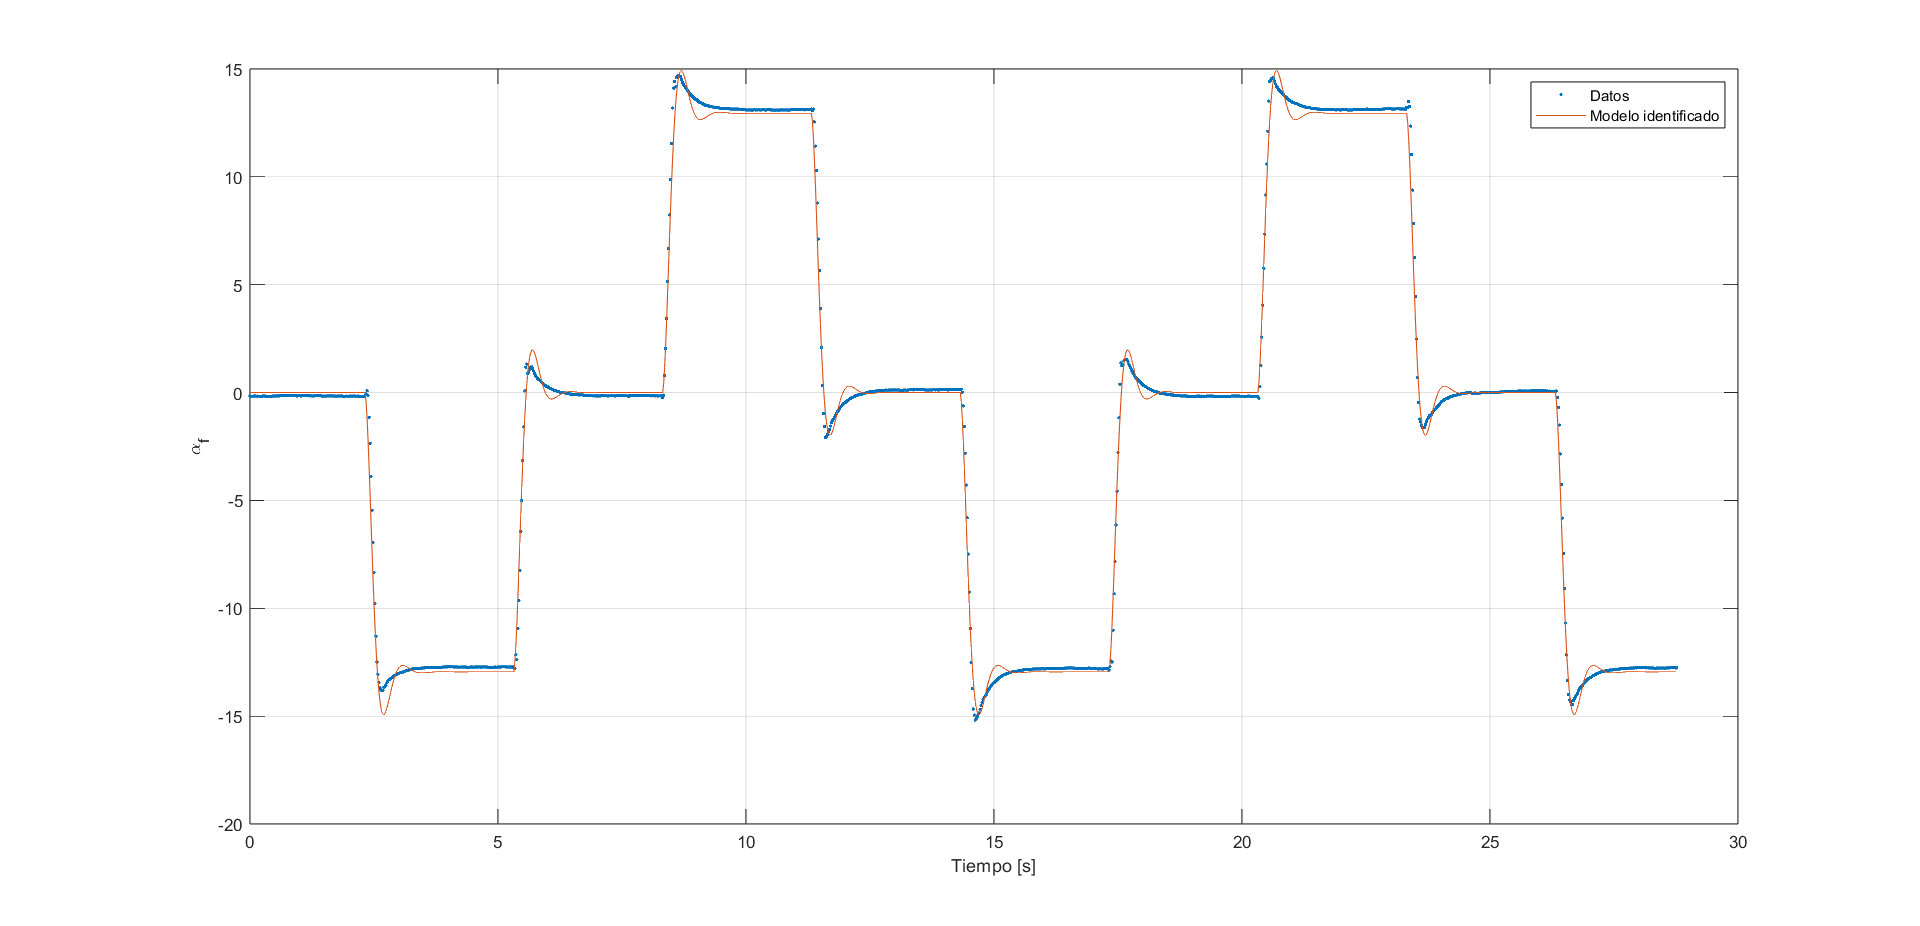
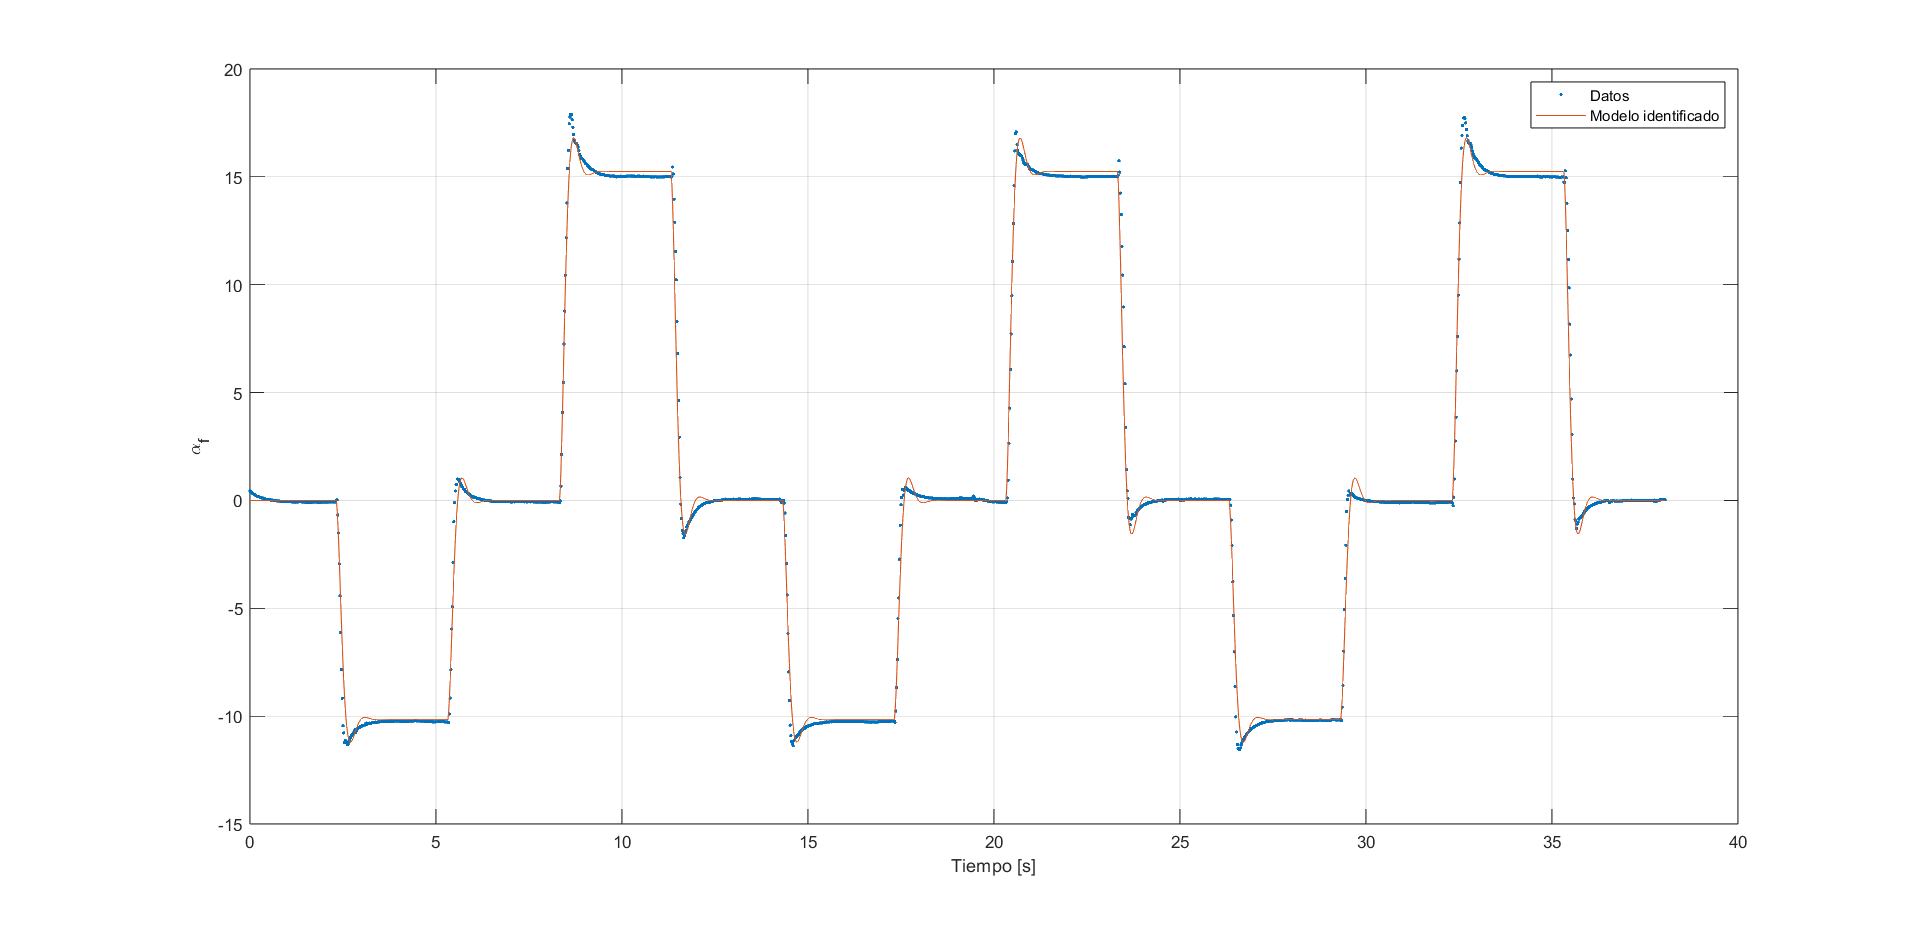
correccion de la relacion us/angulo y actualizacion de los parametros identificados

diff --git a/practica_3/identificacion_2/identificacion.m b/practica_3/identificacion_2/identificacion.m
@@ -1,3 +1,4 @@
+%%
 u = out.u; % senial de control
 y = out.alpha_f; % angulo estimado
 N = length(y); % cant de muestras
@@ -6,7 +7,7 @@ Ts = 0.02; % periodo de muestreo
 % y ~ X * alpha
 % alpha es el vector de coef en y[k]=c1y[k−1]+c2y[k−2]+c3u[k−2] 
 
-X = [y(2:N-1), y(1:N-2), u(1:N-2)];
+X = [y(2:N-1), y(1:N-2), u(1:N-2)];r
 y_identificacion = y(3:N);
 alpha = pinv(X)*y_identificacion;
 
@@ -22,6 +23,11 @@ polos_d = pole(P_d); % polos discretos
 % funcion de transferencia continua
 P_c = d2c(P_d);
 polos_c = pole(P_c); % polos continuos
+
+
+%% Resultados
+s = tf('s');
+P_c = (-0.8081*s + 78.02)/(s^2 + 9.78*s + 90.37);
 
 %% Graficar resultados
 t = (0:N-1)' * Ts;
